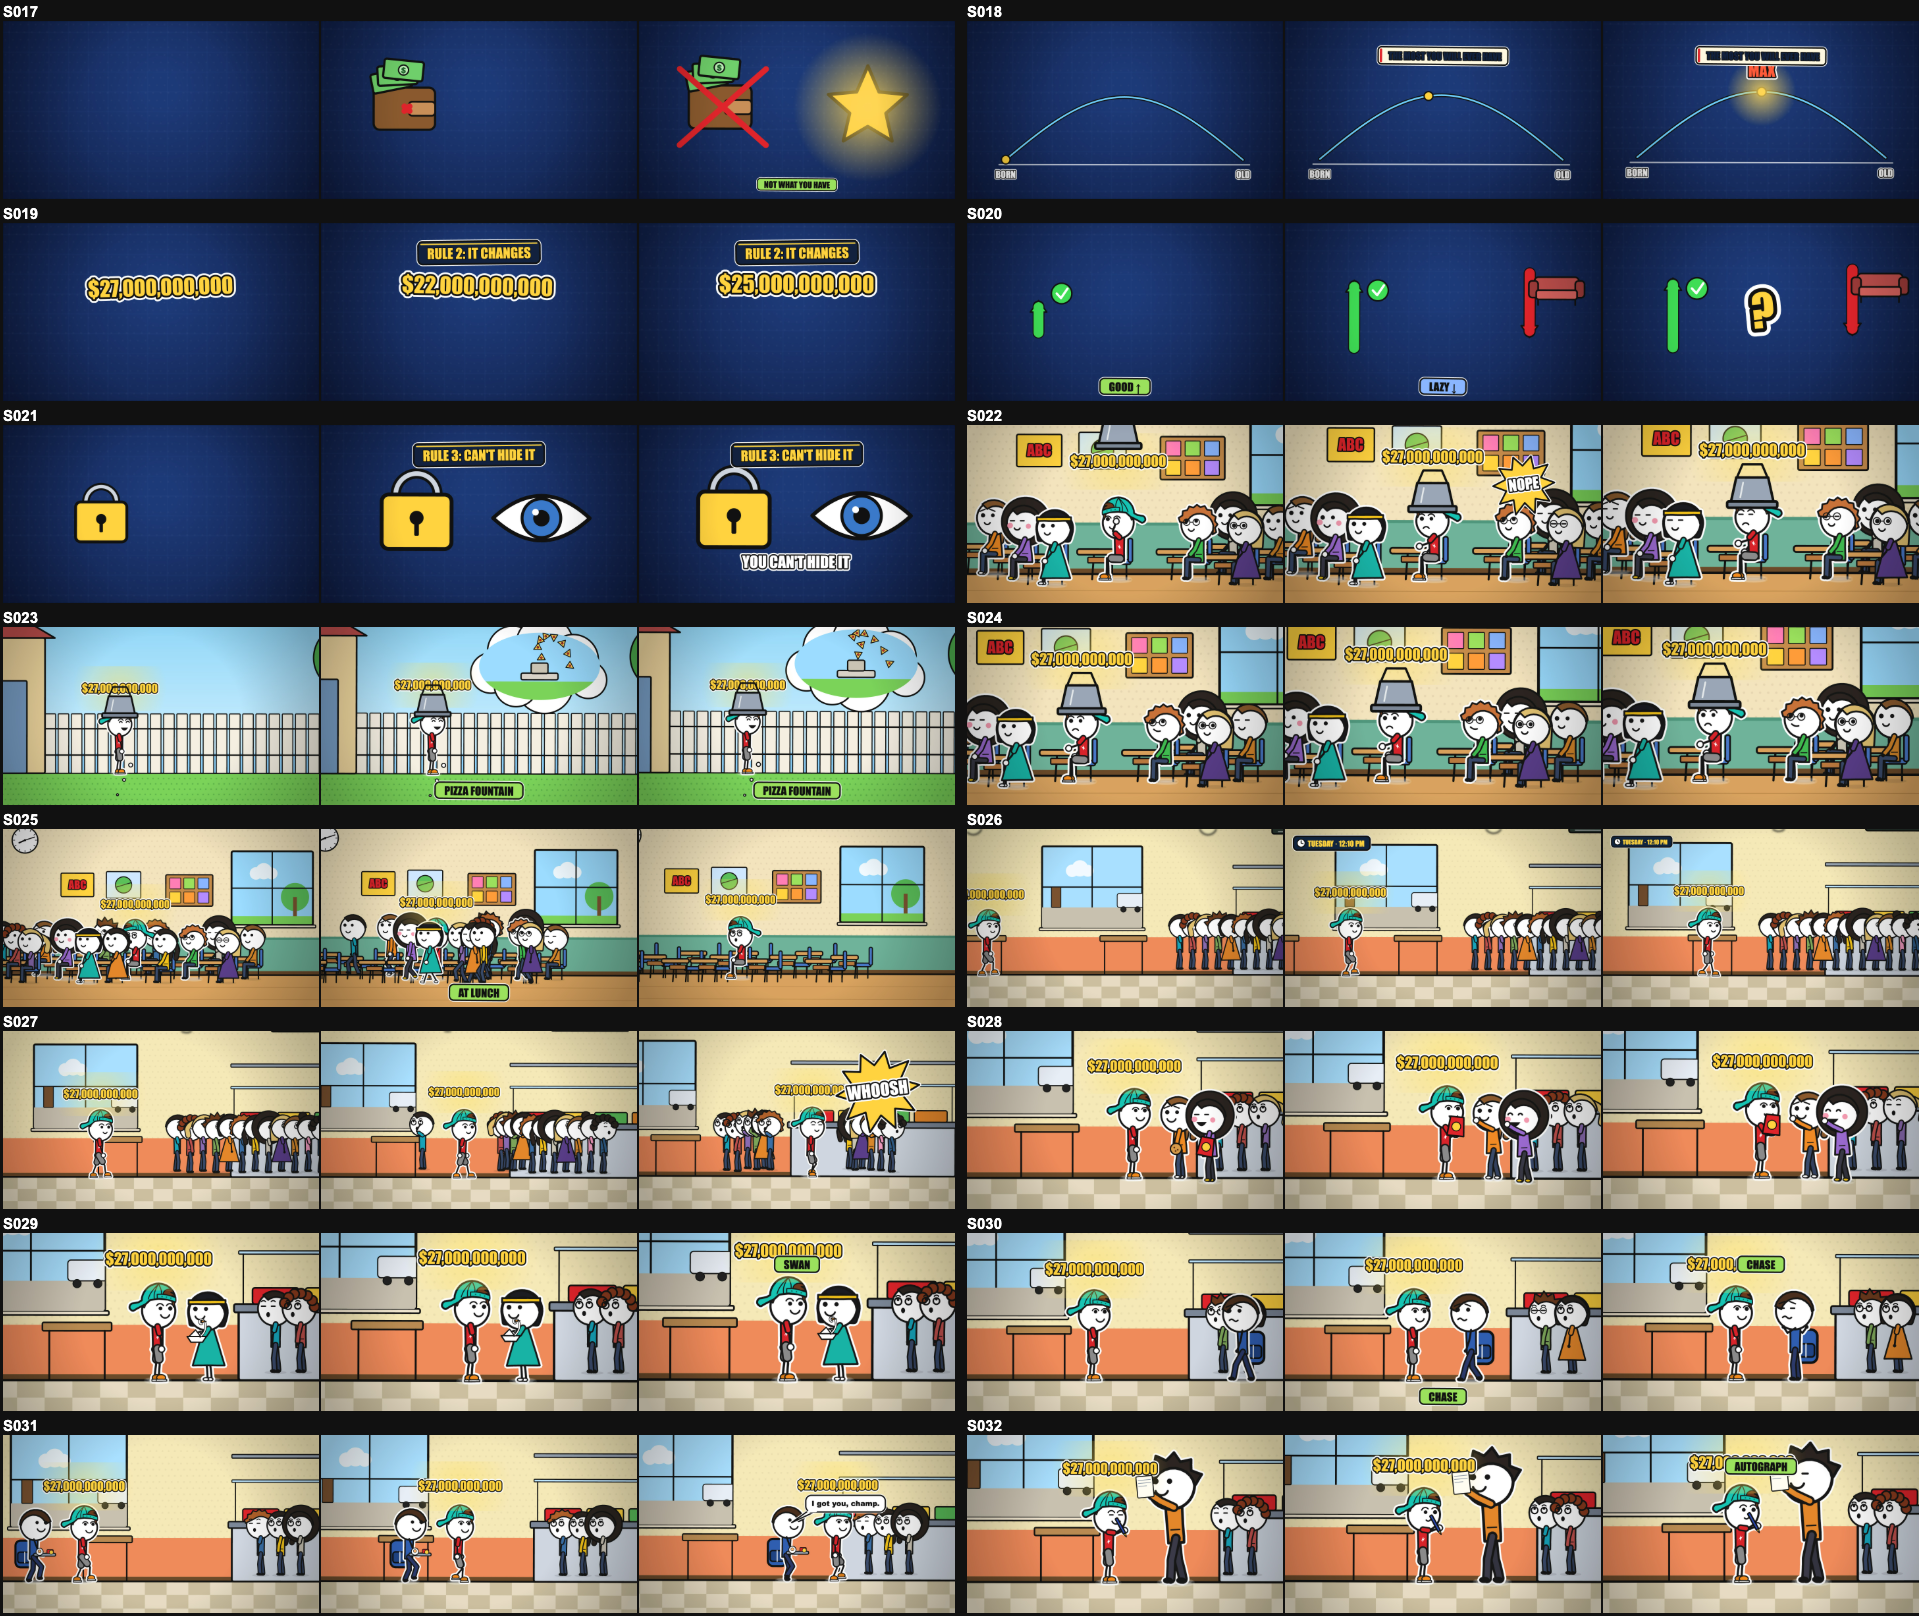
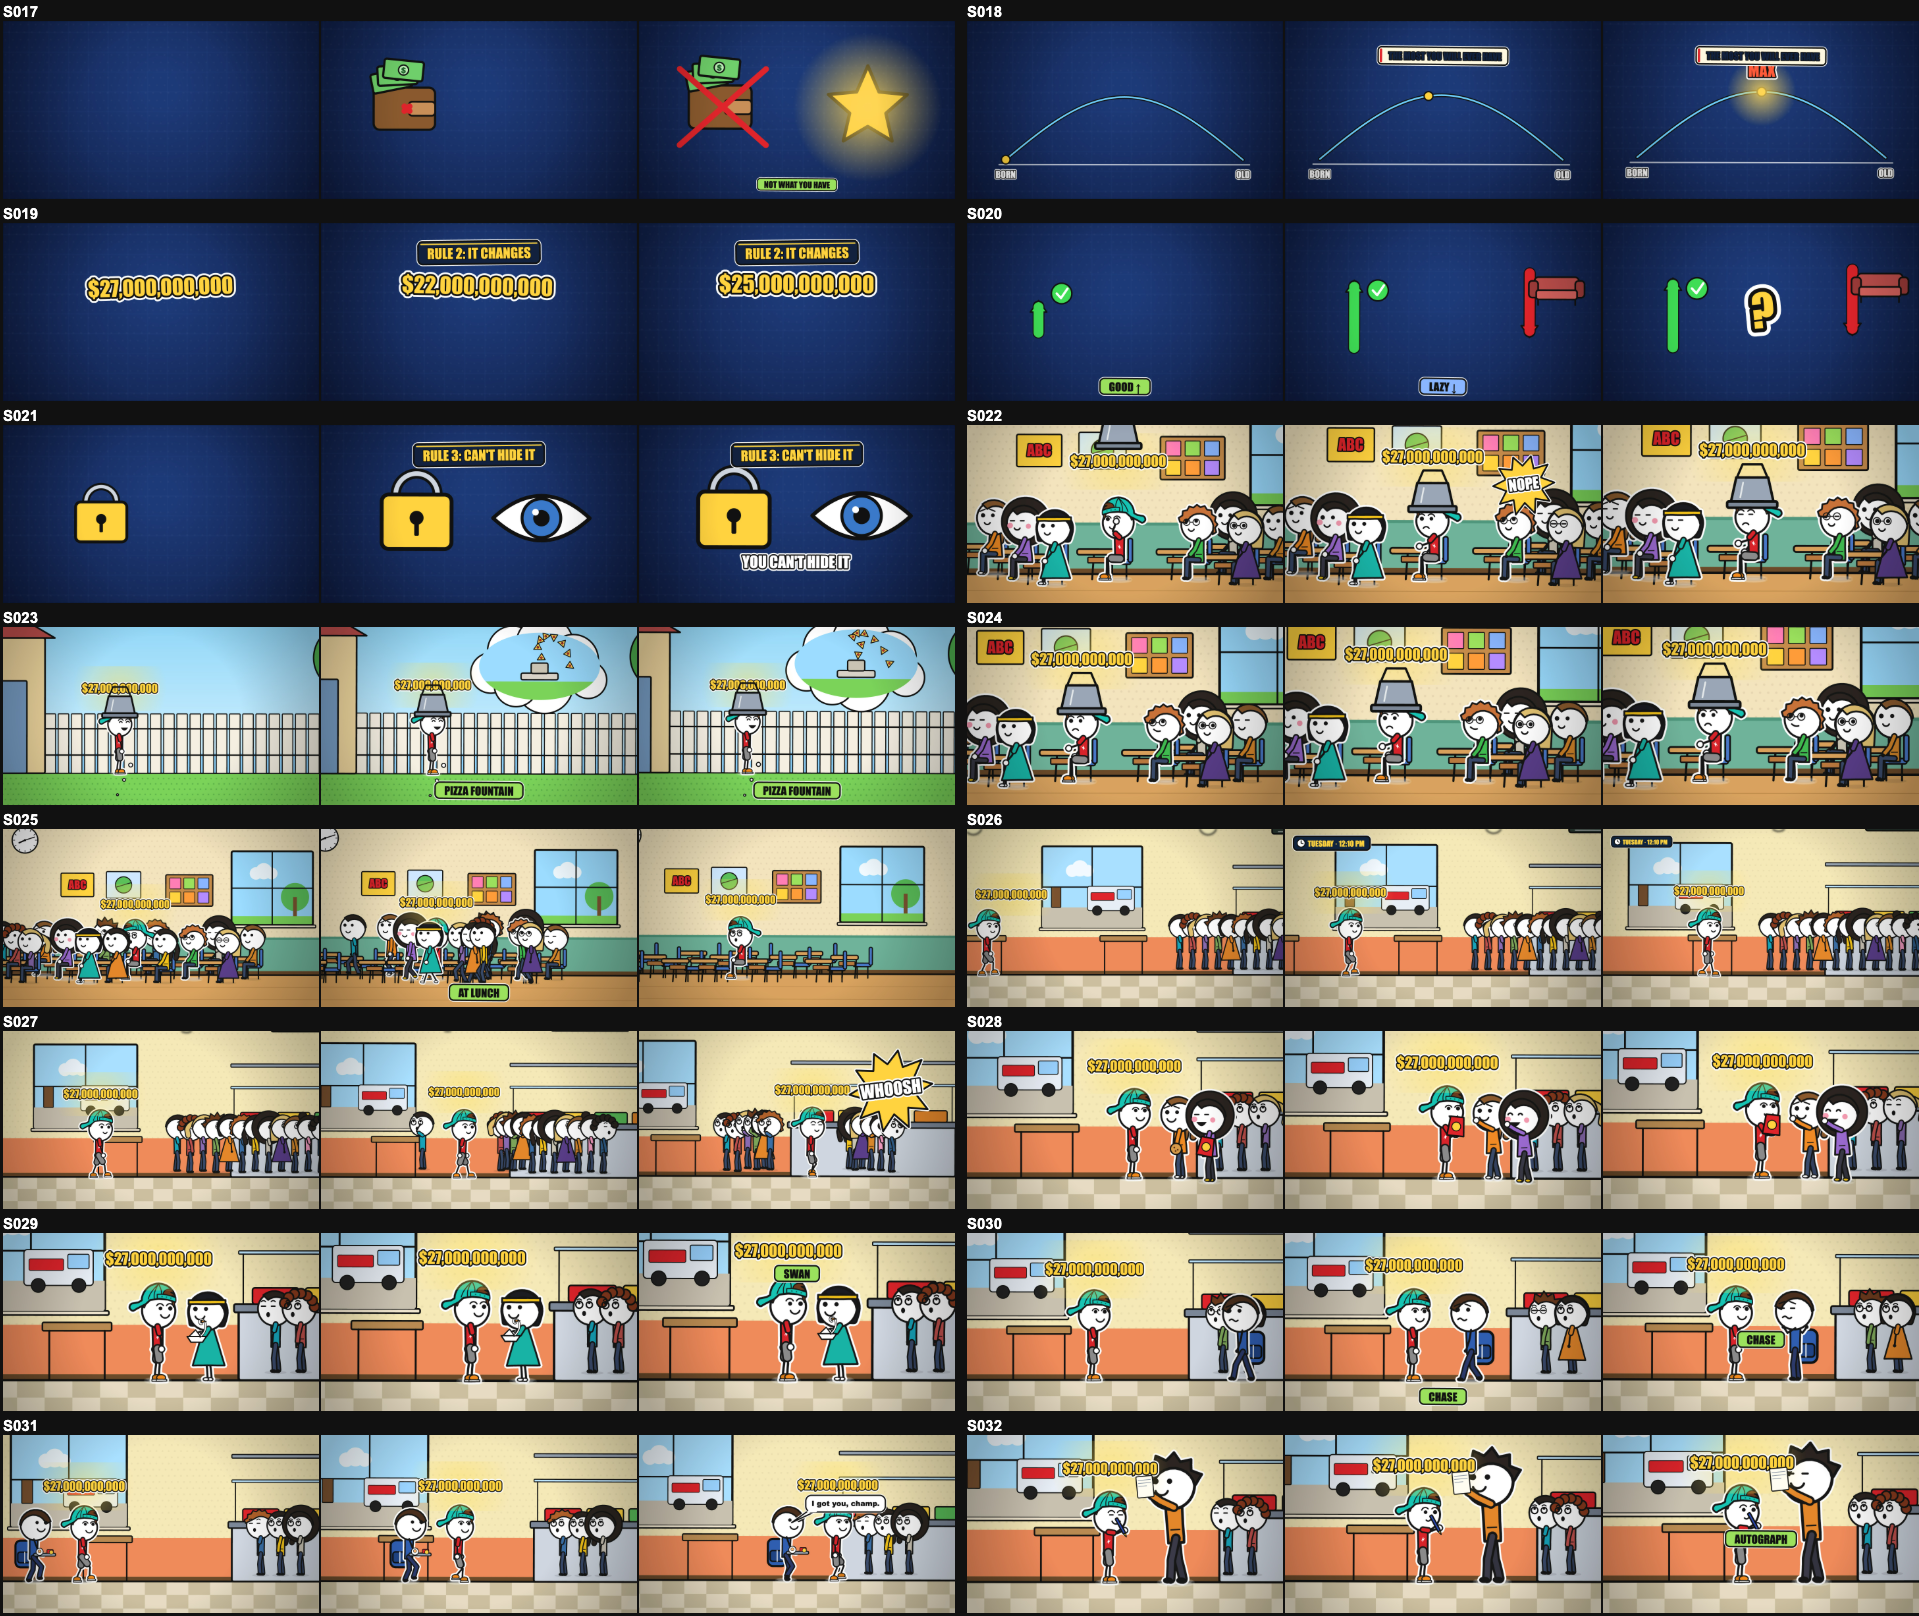
Ролик 13: S142, пересобраны листы, статус в CLAUDE.md

diff --git a/ролики/13 - What If Everyone Could See How Rich You Will Be/гибрид-код/scenes_home.js b/ролики/13 - What If Everyone Could See How Rich You Will Be/гибрид-код/scenes_home.js
@@ -78,7 +78,7 @@ def('S140', { cam: [[-100, 1.0, 884], [100, 1.05, 884]], fn(k) {
 def('S142', { cam: [[300, 1.15, 892], [330, 1.25, 892]], fn(k) {
   kitchen(k); k.push(20, (c) => { dog(c, 300, 0, { pose: 'sit', f: -1, t: k.t, k: 1.3 }); c.save(); c.translate(236, -74); circ(c, 0, 0, 22, '#ffd23f', 6); ptext(c, '$', 0, 2, 26, '#9a6a00'); c.restore(); });
   k.num({ head: [300, -220], top: [300, -260], se: 1 }, '$999,000,000,000', { fs: 64, up: 10 });
-  const pulse = 1 + .05 * Math.sin(k.t * 9); k.push(70, (c) => { c.save(); c.translate(760, -330); c.scale(pulse, pulse); rect(c, -190, -50, 380, 100, '#e0242b', 22, 10); c.beginPath(); c.moveTo(-130, -20); c.lineTo(-130, 20); c.lineTo(-100, 0); c.closePath(); outline(c, '#fff', 4); stext(c, 'SUBSCRIBE', 28, 4, 46, '#fff', 0, 1, '#111', false); c.restore(); });
+  const pulse = 1 + .05 * Math.sin(k.t * 9); k.push(70, (c) => { c.save(); c.translate(900, -470); c.scale(pulse, pulse); rect(c, -190, -50, 380, 100, '#e0242b', 22, 10); c.beginPath(); c.moveTo(-130, -20); c.lineTo(-130, 20); c.lineTo(-100, 0); c.closePath(); outline(c, '#fff', 4); stext(c, 'SUBSCRIBE', 28, 4, 46, '#fff', 0, 1, '#111', false); c.restore(); });
   k.a('LEON', 560, { face: -1, expr: 'smile', look: [-.6, .1] });
 } });
 

diff --git a/CLAUDE.md b/CLAUDE.md
@@ -96,3 +96,6 @@
 
 ## Озвучка в чат
 Когда сценарий готов, текст `сценарий-озвучка.txt` целиком выдаётся в ответе (в блоке кода, чтобы копировать в ElevenLabs), плюс называется полный путь к файлам и ветка/репозиторий. Владелец не должен искать файлы сам.
+
+## Ролик 13 (статус 27.11.2026)
+Движок сцен гибрида собран (`ролики/13 - What If Everyone Could See How Rich You Will Be/гибрид-код/`), 142 сцены, листы в `листы/`. Тандем: картинка от OpenAI (`assets/tandem.png`), седоки по точкам руль/седло/педали (`props13.js: TD, tandemPts`). Прошёл первый проход `frame-reviewer` (9 агентов), все замечания в `замечания-проверки.md`. Сделано: стикеры обходят число и головы, число не уходит за край, S125–S126 одинаковые числа, фургон в окне, график S094. Осталось: остальные замечания из файла, второй проход reviewer, затем рендер `bash гибрид-код/собрать-ролик13.sh <папка>` (звук `audio13.py` готов) на Mac.
